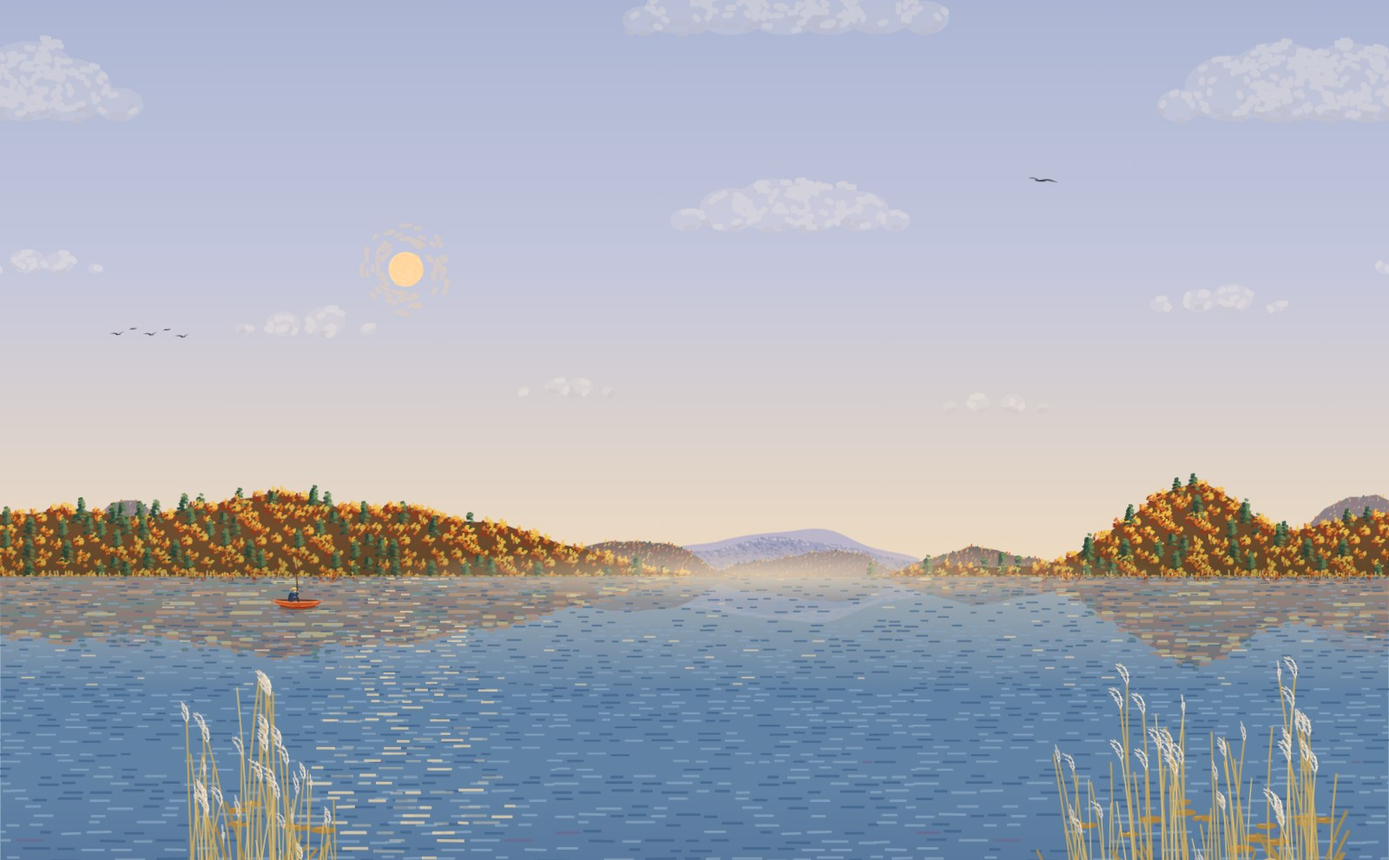
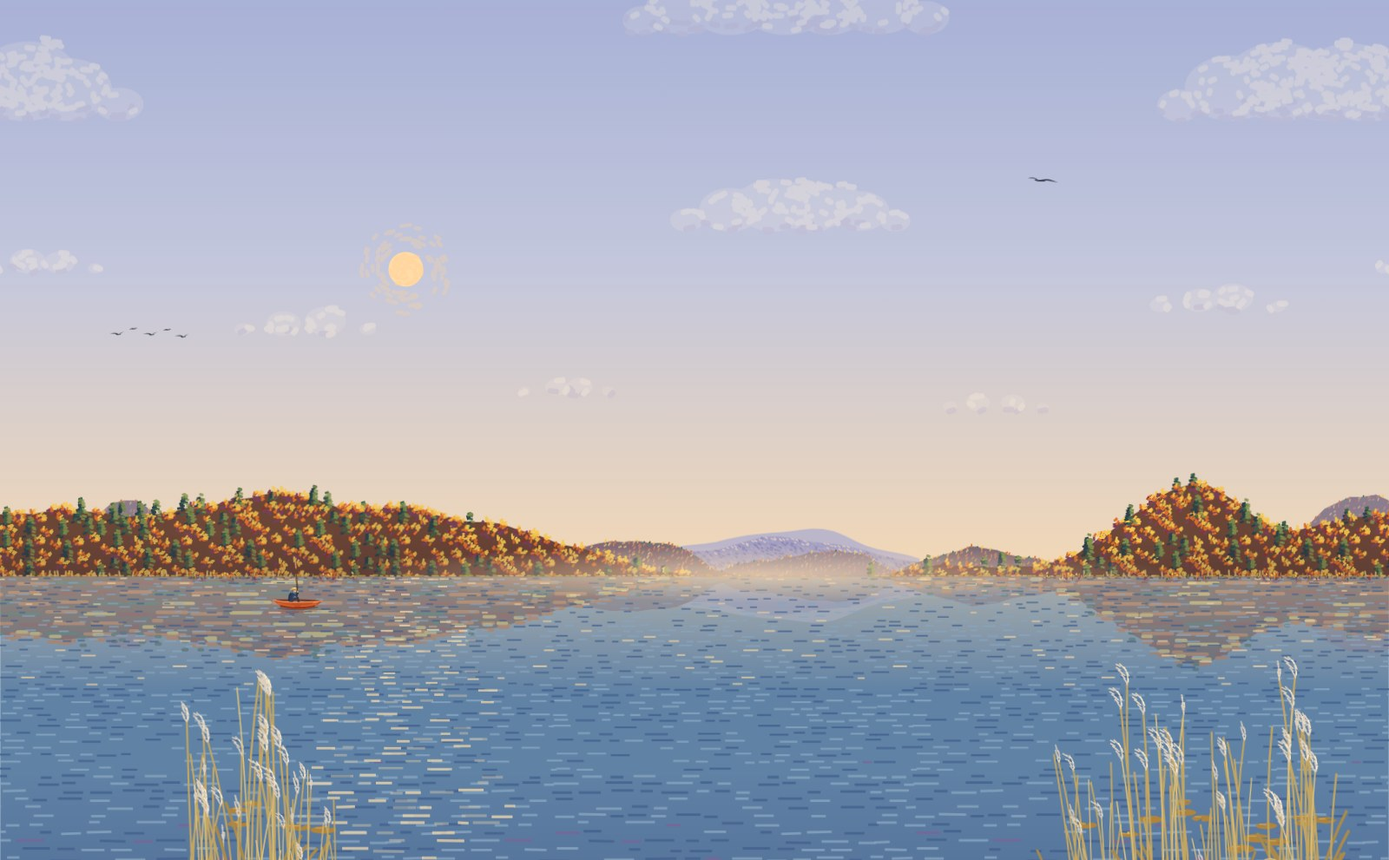
Trees placed as markers (cheaper frames); warmer lights, violet shade, and a cool land tint at dawn and dusk

diff --git a/hooks/scene.ts b/hooks/scene.ts
@@ -125,7 +125,7 @@ const SHADE = '#0b1a33'
 /** The rim of light on the boat and the man. */
 const RIM = '#ffcf9a'
 /** Opacity of the sheets' warm light and cool shade where a face is turned fully to or from the light. */
-const FACE_LIT = 0.16
+const FACE_LIT = 0.19
 const FACE_SHADE = 0.15
 /** The light at a minute: how much comes from the east and from the west across the picture (0 to about 1), from
  * the sun and the moon together, and the sun's own [height, bearing]. */
@@ -560,38 +560,38 @@ type Slot = { day: Four; night?: Four; prop: 'stroke' | 'fill' | 'stop-color' }
 
 const SLOTS: Record<string, Slot> = {
   // sky dabs, top to horizon
-  q1: { prop: 'stop-color', day: ['#9dbde0', '#79aade', '#a2b0d2', '#b6c2d2'], night: ['#0f1a40', '#0d1a44', '#13193d', '#161e3e'] },
+  q1: { prop: 'stop-color', day: ['#94b6e0', '#6c9fdb', '#9caad6', '#aebcd4'], night: ['#0f1a40', '#0d1a44', '#13193d', '#161e3e'] },
   q2: { prop: 'stop-color', day: ['#bfd5ec', '#a9cdec', '#c4c8de', '#cdd5df'], night: ['#1a2a58', '#17295c', '#1e2652', '#212a50'] },
-  q3: { prop: 'stop-color', day: ['#ebe8e0', '#dcecf3', '#f0dcc0', '#eaedf0'], night: ['#2f4274', '#2b4178', '#353a68', '#37416a'] },
+  q3: { prop: 'stop-color', day: ['#f2ead8', '#e8ece2', '#f4d9b6', '#efe9e6'], night: ['#2f4274', '#2b4178', '#353a68', '#37416a'] },
   sf: { prop: 'fill', day: ['#fff3d0', '#fffae2', '#ffdca8', '#f8f4ea'], night: ['#f1ead0', '#f4eed6', '#f3e2bd', '#eef0f2'] },
   // sun by day, moon by night
   su: { prop: 'stroke', day: ['#fff0c4', '#fff7d6', '#ffd49a', '#f6f1e4'], night: ['#f1ead0', '#f4eed6', '#f3e2bd', '#eef0f2'] },
   // clouds: lit tops and shaded bellies
-  cl: { prop: 'stroke', day: ['#f7f7f4', '#ffffff', '#f6ece0', '#eef1f4'], night: ['#4a5684', '#4a5888', '#4e5480', '#55608a'] },
+  cl: { prop: 'stroke', day: ['#fbf6ea', '#fffbf0', '#fbeedd', '#f6f3ee'], night: ['#4a5684', '#4a5888', '#4e5480', '#55608a'] },
   cf: { prop: 'fill', day: ['#f3f4f2', '#fbfcfc', '#f3ebe2', '#e9edf1'], night: ['#3e4a78', '#3e4c7c', '#424874', '#48537e'] },
-  cs: { prop: 'stroke', day: ['#c7d1dc', '#c4d2e2', '#cdc6c8', '#bfc7d1'], night: ['#28325a', '#27345e', '#2b3058', '#2e3760'] },
+  cs: { prop: 'stroke', day: ['#bcc3dc', '#b8c4e0', '#c2bad0', '#b6bdd6'], night: ['#28325a', '#27345e', '#2b3058', '#2e3760'] },
   // far ridge
-  fr: { prop: 'fill', day: ['#93a8c4', '#839ec2', '#a0a3c0', '#a4afc2'] },
-  fd: { prop: 'stroke', day: ['#7a92b6', '#6a8bb4', '#8a8cb0', '#8a98b0'] },
+  fr: { prop: 'fill', day: ['#94a4c8', '#8399c6', '#a29fc4', '#a6abc8'] },
+  fd: { prop: 'stroke', day: ['#7a8cbc', '#6a85ba', '#8a86b4', '#8a92b8'] },
   f2: { prop: 'stroke', day: ['#a2b5cf', '#90abcc', '#b0aac6', '#b7c2d2'] },
-  f3: { prop: 'stroke', day: ['#c4d0e0', '#b2c4da', '#d2c4cc', '#f5f7f9'] },
+  f3: { prop: 'stroke', day: ['#d2d4dc', '#b8c6d8', '#dcc8c4', '#f5f7f9'] },
   // a farther ridge behind it, half lost in the haze of the sky
   fz: { prop: 'fill', day: ['#b7c4d8', '#a9bfd8', '#bcb7cc', '#c4cdd9'] },
   // ground under the woods
-  gr: { prop: 'fill', day: ['#3e6a42', '#2c5534', '#6e4a2e', '#dbe3ee'] },
+  gr: { prop: 'fill', day: ['#3a6248', '#284c3e', '#6a4436', '#d8dff0'] },
   // the shade at the foot of the near woods: dark green, a cool blue on the snow in winter
-  qf: { prop: 'stop-color', day: ['#14301c', '#14301c', '#14301c', '#46608c'] },
+  qf: { prop: 'stop-color', day: ['#152a2e', '#132a30', '#2a1c30', '#4a5a94'] },
   // broadleaf crowns: shadow, body, light (blossom in spring, gold in autumn). In winter the crowns are bare and
   // laden with snow: warm grey and blue-white, the dark twigs (t1) showing only here and there on the shaded side;
   // t4 is the rest of the shade, the same as t1 until winter, when it is snow in shadow.
-  t1: { prop: 'stroke', day: ['#4b7a47', '#2b5a36', '#8e3a22', '#4a3c35'] },
-  t4: { prop: 'stroke', day: ['#4b7a47', '#2b5a36', '#8e3a22', '#9da2b0'] },
-  t2: { prop: 'stroke', day: ['#86bb5e', '#4a8742', '#d6732a', '#c4bcb5'] },
-  t3: { prop: 'stroke', day: ['#f3b6c6', '#8fc25a', '#f2c24a', '#f4f7fb'] },
+  t1: { prop: 'stroke', day: ['#3f6e4c', '#24503a', '#8a3424', '#4a3c35'] },
+  t4: { prop: 'stroke', day: ['#4a6a72', '#2a4c5e', '#74405a', '#9a9cc8'] },
+  t2: { prop: 'stroke', day: ['#86bb5e', '#4a8742', '#d8702c', '#c8bdb4'] },
+  t3: { prop: 'stroke', day: ['#f3b6c6', '#b2cc62', '#f6c84e', '#fbf8f0'] },
   // conifers stay green, white-capped in winter
-  c1: { prop: 'stroke', day: ['#24463a', '#1f4136', '#28473b', '#173328'] },
+  c1: { prop: 'stroke', day: ['#21404a', '#1b3a44', '#2a3f48', '#1a3038'] },
   c2: { prop: 'stroke', day: ['#3b674c', '#305d46', '#3a5f48', '#284a3a'] },
-  c3: { prop: 'stroke', day: ['#6c9a60', '#588a52', '#6c8756', '#eef2f6'] },
+  c3: { prop: 'stroke', day: ['#7aa25e', '#6c9850', '#80904e', '#f8f6f0'] },
   // shore: grass and sand, snow in winter
   g1: { prop: 'stroke', day: ['#79a556', '#5b8b3e', '#a3893f', '#e8eef4'] },
   // reeds near the viewer: stalks, blades, and plumes (purple-brown young plumes in spring and summer, mauve-cream in
@@ -604,12 +604,12 @@ const SLOTS: Record<string, Slot> = {
   g2: { prop: 'stroke', day: ['#cdc28a', '#bfae70', '#caa060', '#cdd7e2'] },
   // water: base, deep dabs, mid dabs, glints
   wa: { prop: 'fill', day: ['#6e9cc2', '#4c8cc2', '#5f82a6', '#8aa2b8'], night: ['#0f1c44', '#0d1c48', '#111b40', '#152042'] },
-  w1: { prop: 'stroke', day: ['#4d7eae', '#2e6da8', '#3e648e', '#6d88a2'], night: ['#0a1534', '#081538', '#0c1532', '#101a36'] },
+  w1: { prop: 'stroke', day: ['#4b74ae', '#2d62a6', '#41608f', '#6a84a6'], night: ['#0a1534', '#081538', '#0c1532', '#101a36'] },
   w2: { prop: 'stroke', day: ['#8bb6d6', '#6aa8da', '#86a5c2', '#b2c4d4'], night: ['#22336a', '#1f346e', '#252f62', '#2a3766'] },
   w3: { prop: 'stroke', day: ['#e4eef2', '#dcedf6', '#f2d8ae', '#f2f5f8'], night: ['#c9c6ae', '#d2cfb6', '#cdbb98', '#d6dae2'] },
   // a few strokes of the opposite colour, as a pointillist puts them: muted violet in the deep water, pale warm in the lit
-  w4: { prop: 'stroke', day: ['#6b6c9e', '#5d64a2', '#6c6690', '#8a8daa'] },
-  w5: { prop: 'stroke', day: ['#d9d5c4', '#d6d6c4', '#e2d0b2', '#e0ddd6'] },
+  w4: { prop: 'stroke', day: ['#7468a8', '#6460aa', '#7a6498', '#8e88b4'] },
+  w5: { prop: 'stroke', day: ['#e8dcc0', '#e6dcbc', '#ecd2a8', '#ece2d8'] },
   // v37: the light side of the reeds' heads; lily pads by the reeds (young in spring, full in summer, floating gold
   // leaves in autumn, thin plates of ice in winter), the light on them, and summer's flowers (the light in other seasons)
   e4: { prop: 'stroke', day: ['#c09a86', '#aa827a', '#fff2d2', '#ffffff'] },
@@ -1309,10 +1309,28 @@ function conifer(d: Dabs, rand: () => number, cx: number, base: number, h: numbe
 
 /** Gap between trees in a row; rows are 0.6 of it apart, every other one set half a gap over. */
 const GAP = 34
-/** Groves: four trees drawn as one set of strokes (two in a row, two in the next set half a gap over) and set down with
- * one <use>, for the woods inside the hills; the trees along a skyline stand one by one. A frame costs about the
- * same per <use> however many strokes it holds, so groves keep the wider land as cheap as v23's. */
+/** Groves: four trees drawn as one set of strokes (two in a row, two in the next set half a gap over) and set down as
+ * one marker, for the woods inside the hills; the trees along a skyline stand one by one. */
 const GROVES = 7
+/** The markers the woods are painted with (see woods): each tree's shade and body, its lit strokes; the same for the
+ * groves. A path of class X puts marker X on each of its points. */
+const TREE_MARKS = [...'ABCDEFGHIJKLMNOPQRSTUVWXY', ...[0, 1, 2, 3, 4, 5, 6].map(g => `y${g}`)]
+const litMark = (id: string) => `${id}l`
+/** One band's trees: for each template, a path through its places (back ones first), with its shade and body; then a
+ * <use> copy of them all in a group that flashes with the gust, where they carry the lit strokes instead (a selector
+ * naming an ancestor outside a copy does not match inside it: see the stylesheet). */
+function treePaths(at: Map<string, [number, number][]>, id: string) {
+  const list = [...at].sort(([, a], [, b]) => a.reduce((s, p) => s + p[1], 0) / a.length - b.reduce((s, p) => s + p[1], 0) / b.length)
+  const d = (pts: [number, number][]) => {
+    let [px, py] = [0, 0]
+    return pts.map(([x, y]) => {
+      const m = `m${pair(x - px, y - py)}`
+      ;[px, py] = [x, y]
+      return m
+    }).join('')
+  }
+  return `<g id="${id}">${list.map(([k, pts]) => `<path class="${k}" d="${d(pts)}"/>`).join('')}</g><g class="vl"><use href="#${id}"/></g>`
+}
 /** Random draws v23's woods took from the scene's stream: still taken, so the reeds keep their shapes. */
 const OLD_WOOD_DRAWS = 7647
 
@@ -1324,14 +1342,20 @@ function woods(sceneRand: () => number) {
   const left = outline(slopeL, X0 - 8, L_END, 16)
   const right = outline(slopeR, R_START, X1 + 16, 16)
 
-  // The trees are a few drawn crowns and cones, each set down where it stands with <use>: the renderer repeats them,
+  // The trees are a few drawn crowns and cones, each set down where it stands as a marker: the renderer repeats them,
   // so the picture stays small however many trees there are. Several of each size, so neighbours seldom match.
-  // A tree's lit strokes sit in their own group (.vl) so a gust can flash them, as leaves turn their pale side to
-  // the wind; the band a tree stands in hands the gust's timing down to it (--d).
+  // A tree's lit strokes are a marker of their own, drawn in a group per band (.vl) so a gust can flash them, as
+  // leaves turn their pale side to the wind; the band hands the gust's timing down to that group (--d).
   const lit = (slot: string) => slot === 't3' || slot === 'c3'
   type Shape = { id: string; r: number; kind: 'b' | 'c'; slots: [string, [number, number, number, number][]][]; dabs: [number, number, number, number][] }
   const shapes: Record<'b' | 'c', Shape[][]> = { b: [], c: [] }
   let defs = ''
+  // Each tree (and grove) is painted twice as a marker: its shade and body (id), and its lit strokes (lit). A tree is
+  // set down as a point of a path that is never stroked, each template's places in a band one path, which the player
+  // draws for much less than a <use> each (v44: about 0.4 ms a frame). Marker content inherits only from where the
+  // marker is defined, so nothing inside may move: the leaves' flash is a group opacity round the lit paths of each
+  // band instead (drawn after its shade and body, which in the sparse dabs looks the same).
+  const marks = (id: string, litId: string, d: Dabs) => `<marker id="${id}">${d.svg(0, '', s => !lit(s))}</marker><marker id="${litId}">${d.svg(0, '', lit)}</marker>`
   const brush = rng(7741)
   for (const [kind, sizes, variants] of [['b', [10, 11.5, 13, 14.5], 4], ['c', [10, 12, 14], 3]] as const) {
     for (const r of sizes) {
@@ -1341,9 +1365,9 @@ function woods(sceneRand: () => number) {
         if (kind === 'c') conifer(d, brush, 0, 0, r * 3)
         else crown(d, brush, 0, 0, r)
         // (the trees' templates are named by single capital letters, A to Y: their names are written at every tree)
-        const id = 'ABCDEFGHIJKLMNOPQRSTUVWXYZ'[defs.split('<g id=').length - 1]!
+        const id = 'ABCDEFGHIJKLMNOPQRSTUVWXYZ'[shapes.b.flat().length + shapes.c.flat().length + row.length]!
         row.push({ id, r, kind, slots: [...d.bySlot.entries()], dabs: [...d.bySlot.values()].flat() })
-        defs += `<g id="${id}">${d.svg(0, '', s => !lit(s))}<g class="vl">${d.svg(0, '', lit)}</g></g>`
+        defs += marks(id, litMark(id), d)
       }
       shapes[kind].push(row)
     }
@@ -1380,16 +1404,16 @@ function woods(sceneRand: () => number) {
         }
       }
     }
-    defs += `<g id="k${g}">${d.svg(0, '', s => !lit(s))}<g class="vl">${d.svg(0, '', lit)}</g></g>`
+    defs += marks(`y${g}`, litMark(`y${g}`), d)
   }
 
   // staggered rows of trees; the top row stands on the ridge, so crowns break the skyline. Taken four places at a
   // time: where all four lie deep in the woods a grove stands there, elsewhere each place gets its own tree.
-  type Stand = { x: number; y: number; use: string; trees: Tree[] }
+  type Stand = { x: number; y: number; id: string; trees: Tree[] }
   const stands0: Stand[] = []
-  const single = (t: Tree) => stands0.push({ x: t.x, y: t.y, use: `<use href="#${t.shape.id}" x="${t.x}" y="${t.y}"/>`, trees: [t] })
+  const single = (t: Tree) => stands0.push({ x: t.x, y: t.y, id: t.shape.id, trees: [t] })
   const group = (id: string, members: Tree[], x: number, y: number) =>
-    stands0.push({ x, y, use: `<use href="#${id}" x="${x}" y="${y}"/>`, trees: members.map(t => ({ ...t, x: t.x + x, y: t.y + y })) })
+    stands0.push({ x, y, id, trees: members.map(t => ({ ...t, x: t.x + x, y: t.y + y })) })
   const plant = (x0: number, x1: number, top: (x: number) => number) => {
     const dy = GAP * 0.6
     // rows counted up from the water, each pair of rows taken together
@@ -1400,7 +1424,7 @@ function woods(sceneRand: () => number) {
         const inside = ([x, y]: readonly [number, number]) => y - 6 > top(x) + 2 && y + 6 <= SHORE + 4 && x <= x1
         if (places.every(inside)) {
           const g = Math.floor(rand() * GROVES)
-          group(`k${g}`, groves[g]!, R(x0 + j * GAP + (rand() - 0.5) * 6), R(rowY(i + 0.5) + (rand() - 0.5) * 4))
+          group(`y${g}`, groves[g]!, R(x0 + j * GAP + (rand() - 0.5) * 6), R(rowY(i + 0.5) + (rand() - 0.5) * 4))
           continue
         }
         for (const [x, y] of places) {
@@ -1428,7 +1452,7 @@ function woods(sceneRand: () => number) {
   // right, and neighbouring trees never move as one.
   // The skyline the hills and treetops make is read off the strokes as they are set down: the dawn and dusk glow and
   // the moon are kept above it, so the moon sets behind the trees and the glow does not lie over the land.
-  const stands = Array.from({ length: GUST_BANDS * 2 }, () => '')
+  const stands = Array.from({ length: GUST_BANDS * 2 }, () => new Map<string, [number, number][]>())
   // the woods as the lake shows them: each tree a couple of flat dabs of its colours
   const soft = new Dabs().order('t1', 'c1', 't2', 'c2', 't3')
   const tops = new Map<number, number>()
@@ -1438,7 +1462,9 @@ function woods(sceneRand: () => number) {
   }
   for (const [i, s] of stands0.entries()) {
     const band = Math.min(GUST_BANDS - 1, Math.max(0, Math.floor(((s.x - X0) / (X1 - X0)) * GUST_BANDS)))
-    stands[band * 2 + (i % 2)] += s.use
+    // (each template's trees in a band rustle as one, half the templates one way, half the other: one path each)
+    const places = stands[band * 2 + ((s.id.charCodeAt(0) + +(s.id[1] ?? 0) + band) % 2)]!
+    places.set(s.id, [...(places.get(s.id) ?? []), [s.x, s.y]])
     // a grove shows in the lake as a long dab for each of its rows
     if (s.trees.length > 1) {
       for (const v of [-0.3, 0.3]) {
@@ -1487,7 +1513,7 @@ function woods(sceneRand: () => number) {
   const hills = [[slopeL, X0 - 8, L_END, 'ga'], [slopeR, R_START, X1 + 16, 'gb']] as const
   const sheets = (['le', 'lw'] as const).map((side, i) => hills.map(([f, x0, x1, id], j) => `<use href="#${id}" class="${side}" fill="url(#l${2 * i + j})"/>`).join('')).join('')
   defs += (['le', 'lw'] as const).map(side => hills.map(([f, x0, x1], j) => faceSheet(`l${(side === 'le' ? 0 : 2) + j}`, f, x0, x1, side === 'le')).join('')).join('')
-  return `<defs>${defs}</defs><g class="gr"><path id="ga" fill="inherit" d="${left}"/><path id="gb" fill="inherit" d="${right}"/></g>${stands.map((u, i) => `<g class="u${i >> 1}"><g class="j${i & 1}">${u}</g></g>`).join('')}${feet}<g class="li">${sheets}</g>${shore.svg(3)}`
+  return `<defs>${defs}</defs><g class="gr"><path id="ga" fill="inherit" d="${left}"/><path id="gb" fill="inherit" d="${right}"/></g>${stands.map((u, i) => `<g class="u${i >> 1}"><g class="j${i & 1}">${treePaths(u, `T${i}`)}</g></g>`).join('')}${feet}<g class="ld" fill="#2c2856"><use href="#m0"/><use href="#m1"/><use href="#ga"/><use href="#gb"/></g><g class="li">${sheets}</g>${shore.svg(3)}`
 }
 
 // The lake's ripples, finer toward the horizon: rows close-set and strokes small and thin in the far water, growing
@@ -1537,7 +1563,7 @@ function water(rand: () => number) {
       const len = Math.min(size(), x0 + tile - 2 * Z - x)
       const p = wave()
       const q = tint()
-      const slot = depth > 0.4 && q < 0.045 ? 'w4' : depth < 0.3 && q < 0.06 ? 'w5' : p < 0.55 ? 'w2' : 'w1'
+      const slot = depth > 0.4 && q < 0.065 ? 'w4' : depth < 0.3 && q < 0.1 ? 'w5' : p < 0.55 ? 'w2' : 'w1'
       if ((x === x0 || wave() < 0.66) && len > 2) set.add(slot, x, y + jitter(), len, tilt())
       x += len + space()
     }
@@ -2034,7 +2060,7 @@ function build() {
   // dusk and night over all of it, deeper toward the top of the sky; above the veil, kept to the sky by the skyline,
   // the low glow of dawn and dusk and the moon, which sets behind the trees; the stars; the moon's path on the water
   // and the boat's lantern, which shine through the night; a dimmer for a dark window.
-  return `<defs><clipPath id="wc"><rect x="${X0}" y="${SHORE}" width="${X1 - X0}" height="${Y1 - SHORE}"/></clipPath><linearGradient id="sg" x2="0" y2="1"><stop class="q1"/><stop class="q2" offset=".55"/><stop class="q3" offset="1"/></linearGradient><radialGradient id="gl"><stop stop-color="#ffd37a" stop-opacity=".9"/><stop offset="1" stop-color="#ffd37a" stop-opacity="0"/></radialGradient>${glow('ge', ARC_X[0])}<clipPath id="sk"><path clip-rule="evenodd" d="M${X0 - 10} ${Y0 - 10}H${X1 + 30}V${Y1 + 10}H${X0 - 10}z${skyline}"/></clipPath><linearGradient id="nt" x2="0" y2="1"><stop stop-color="${NIGHT}" stop-opacity=".6"/><stop offset="1" stop-color="${NIGHT}" stop-opacity="0"/></linearGradient><linearGradient id="wg" x2="0" y2="1"><stop class="q3" stop-opacity=".5"/><stop class="q3" offset=".3" stop-opacity="0"/><stop offset=".55" stop-color="#0c2550" stop-opacity="0"/><stop offset="1" stop-color="#0c2550" stop-opacity=".22"/></linearGradient><radialGradient id="yg" gradientUnits="userSpaceOnUse" cx="${ARC_X[0]}" cy="${SHORE}" r="${R(1000 * ZK)}" gradientTransform="matrix(1 0 0 .3 0 ${R(SHORE * 0.7)})"><stop stop-color="#ffb46a" stop-opacity=".7"/><stop offset=".3" stop-color="#f49a7e" stop-opacity=".38"/><stop offset=".7" stop-color="#b08ab8" stop-opacity=".1"/><stop offset="1" stop-color="#b08ab8" stop-opacity="0"/></radialGradient><radialGradient id="hz" gradientUnits="userSpaceOnUse" cx="930" cy="${SHORE - 6}" r="760" gradientTransform="matrix(1 0 0 .07 0 ${R((SHORE - 6) * 0.93)})"><stop class="q3" stop-opacity=".75"/><stop class="q3" offset=".6" stop-opacity=".3"/><stop class="q3" offset="1" stop-opacity="0"/></radialGradient><linearGradient id="ft" gradientUnits="userSpaceOnUse" y1="${SHORE - 80}" x2="0" y2="${SHORE + 4}"><stop class="qf" stop-opacity="0"/><stop class="qf" offset="1" stop-opacity=".2"/></linearGradient><radialGradient id="mg"><stop stop-color="#eef1f6" stop-opacity=".75"/><stop offset=".55" stop-color="#eef1f6" stop-opacity=".35"/><stop offset="1" stop-color="#eef1f6" stop-opacity="0"/></radialGradient>${catsPaw[0]}<radialGradient id="hg"><stop offset=".3" stop-color="${SHADE}"/><stop offset="1" stop-color="${SHADE}" stop-opacity="0"/></radialGradient><radialGradient id="mh"><stop stop-color="#eef2fa" stop-opacity=".5"/><stop offset=".45" stop-color="#eef2fa" stop-opacity=".14"/><stop offset="1" stop-color="#eef2fa" stop-opacity="0"/></radialGradient></defs>
+  return `<defs><clipPath id="wc"><rect x="${X0}" y="${SHORE}" width="${X1 - X0}" height="${Y1 - SHORE}"/></clipPath><linearGradient id="sg" x2="0" y2="1"><stop class="q1"/><stop class="q2" offset=".55"/><stop class="q3" offset="1"/></linearGradient><radialGradient id="gl"><stop stop-color="#ffd37a" stop-opacity=".9"/><stop offset="1" stop-color="#ffd37a" stop-opacity="0"/></radialGradient>${glow('ge', ARC_X[0])}<clipPath id="sk"><path clip-rule="evenodd" d="M${X0 - 10} ${Y0 - 10}H${X1 + 30}V${Y1 + 10}H${X0 - 10}z${skyline}"/></clipPath><linearGradient id="nt" x2="0" y2="1"><stop stop-color="${NIGHT}" stop-opacity=".6"/><stop offset="1" stop-color="${NIGHT}" stop-opacity="0"/></linearGradient><linearGradient id="wg" x2="0" y2="1"><stop class="q3" stop-opacity=".5"/><stop class="q3" offset=".3" stop-opacity="0"/><stop offset=".5" stop-color="#1c2462" stop-opacity="0"/><stop offset="1" stop-color="#1c2462" stop-opacity=".28"/></linearGradient><radialGradient id="yg" gradientUnits="userSpaceOnUse" cx="${ARC_X[0]}" cy="${SHORE}" r="${R(1000 * ZK)}" gradientTransform="matrix(1 0 0 .3 0 ${R(SHORE * 0.7)})"><stop stop-color="#ffb46a" stop-opacity=".7"/><stop offset=".3" stop-color="#f49a7e" stop-opacity=".38"/><stop offset=".7" stop-color="#b08ab8" stop-opacity=".1"/><stop offset="1" stop-color="#b08ab8" stop-opacity="0"/></radialGradient><radialGradient id="hz" gradientUnits="userSpaceOnUse" cx="930" cy="${SHORE - 6}" r="760" gradientTransform="matrix(1 0 0 .07 0 ${R((SHORE - 6) * 0.93)})"><stop class="q3" stop-opacity=".75"/><stop class="q3" offset=".6" stop-opacity=".3"/><stop class="q3" offset="1" stop-opacity="0"/></radialGradient><linearGradient id="ft" gradientUnits="userSpaceOnUse" y1="${SHORE - 80}" x2="0" y2="${SHORE + 4}"><stop class="qf" stop-opacity="0"/><stop class="qf" offset="1" stop-opacity=".2"/></linearGradient><radialGradient id="mg"><stop stop-color="#eef1f6" stop-opacity=".75"/><stop offset=".55" stop-color="#eef1f6" stop-opacity=".35"/><stop offset="1" stop-color="#eef1f6" stop-opacity="0"/></radialGradient>${catsPaw[0]}<radialGradient id="hg"><stop offset=".3" stop-color="${SHADE}"/><stop offset="1" stop-color="${SHADE}" stop-opacity="0"/></radialGradient><radialGradient id="mh"><stop stop-color="#eef2fa" stop-opacity=".5"/><stop offset=".45" stop-color="#eef2fa" stop-opacity=".14"/><stop offset="1" stop-color="#eef2fa" stop-opacity="0"/></radialGradient></defs>
 <rect fill="url(#sg)" ${sky}/>${sunDabs}${cloudDabs}${birds()}
 <g>${far}${mids}${wood}</g>
 <rect class="wa" ${lake0}/><rect fill="url(#wg)" ${lake0}/>
@@ -2167,6 +2193,8 @@ function dayCss(now: number, tz: number) {
     ['gk', 7.2, m => `opacity:${num(ramp(sunEl(m), [[1, 0.9], [5, 0.7], [11, 0]]))}`],
     ['cp', 7.2, m => `opacity:${num(ramp(sunEl(m), [[-9, 0], [-4, 0.7], [2, 0.85], [7, 0.5], [13, 0]]))}`],
     ['ms', 7.2, m => `opacity:${num(day.sun(m)[1] < 180 ? ramp(sunEl(m), [[-7, 0], [-4, 0.9], [2, 0.85], [8, 0]]) : 0)}`],
+    // the land goes cool and dark against the glowing sky when the sun is low (under the lake it is hidden)
+    ['ld', 7.2, m => `opacity:${num(ramp(sunEl(m), [[-6, 0], [-2, 0.3], [3, 0.26], [9, 0]]))}`],
     ['bd', 7.2, m => `opacity:${num(ramp(sunEl(m), [[-4, 0], [0, 1]]))}`],
     ['lq', 7.2, m => `opacity:${num(ramp(sunEl(m), [[-4, 1], [2, 0]]))}`],
     // the light engine: the sheets on the hills and the rims on the boat, the boat's and the hills' shade, the clouds' bellies
@@ -2265,11 +2293,11 @@ ${variant === 'test' ? '' : `.gy{animation:gy var(--b) ease-in-out var(--o,0s) i
 .bj{--b:${short(FLOCK_BEAT)}s;animation:jostle var(--t) ease-in-out var(--j) infinite alternate}@keyframes jostle{from{translate:-3px 1.6px}to{translate:3px -2.4px}}
 @keyframes gn{0%,30%,62%,100%{rotate:0deg}42%,50%{rotate:-5deg}}.kf{fill:#5d6b7a;transform:matrix(-.6,.16,0,.75,5,-2)}
 .oy{--b:${short(BEAT_S)}s;animation:oy var(--t) ease-in-out var(--j) infinite alternate,gn 23s ease-in-out var(--d) infinite}@keyframes oy{from{translate:0 -11px}to{translate:0 11px}}
-marker{overflow:visible}.e2{stroke-width:${num(2.2 * PS)}}.e4{stroke-width:${num(1.6 * PS)}}${PLUMES.map((_, q) => `.k${q}{marker:url(#rp${q})}`).join('')}${REEDS.map((_, i) => `.x${i}`).join(',')}{animation:reed ${GUST}s ease-in-out var(--j) infinite}${REEDS.map(([x, y], i) => `.x${i}{transform-origin:${x}px ${y}px;--j:${short(gustDelay(x))}s}`).join('')}
+marker{overflow:visible}${TREE_MARKS.map(k => `.${k}{marker:url(#${litMark(k)})}`).join('')}${TREE_MARKS.map(k => `g>g>.${k}{marker:url(#${k})}`).join('')}.e2{stroke-width:${num(2.2 * PS)}}.e4{stroke-width:${num(1.6 * PS)}}${PLUMES.map((_, q) => `.k${q}{marker:url(#rp${q})}`).join('')}${REEDS.map((_, i) => `.x${i}`).join(',')}{animation:reed ${GUST}s ease-in-out var(--j) infinite}${REEDS.map(([x, y], i) => `.x${i}{transform-origin:${x}px ${y}px;--j:${short(gustDelay(x))}s}`).join('')}
 ${gustFrames('reed', s => `transform:skewX(${num(0.5 + 1.9 * s)}deg)`)}
 
 .sk{animation:flake 400s linear infinite}@keyframes flake{to{transform:translateY(${Y1 - Y0}px)}}
-.lg stop{stop-color:#10203f}.lg .la{stop-color:#ffe0a8}.hs{transform-origin:0 ${SHORE}px}.cu{stroke:#f2a08e}.gk{stroke:#ff9a4c}.cp{stroke:#ffb894;fill:#f6b9a4}
+.lg stop{stop-color:#1e1c4c}.lg .la{stop-color:#ffe0a8}.hs{transform-origin:0 ${SHORE}px}.cu{stroke:#f2a08e}.gk{stroke:#ff9a4c}.cp{stroke:#ffb894;fill:#f6b9a4}
 ${variant === 'test' ? '.tm{animation:tm 12s linear infinite}@keyframes tm{to{transform:translateX(1600px)}}' : ''}
 .bt{translate:${SPOTS[0][0]}px ${LANES[0]}px;animation:voyage ${VOYAGE}s linear ${lap(VOYAGE)}s infinite}
 ${voyage()}

diff --git a/tests/lake.test.tsx b/tests/lake.test.tsx
@@ -1,6 +1,6 @@
 import { expect, test } from 'claude-code/testing'
 
-const SCENE = 'lake43-auto-60-full'
+const SCENE = 'lake44-auto-60-full'
 
 function engine(on: any, sets: unknown[]) {
   on('command.register', (_: unknown, e: { name: string }) => ({ value: { command: e.name } }))
@@ -39,7 +39,7 @@ test('/lake pins a season, /lake off clears, /lake on sets it again', async ($, 
 
   const autumn = await $.command.run({ command: 'lake', args: '秋' })
   expect(String(autumn.text)).toContain('定格在秋')
-  expect(sets.at(-1).backdrop.scene).toBe('lake43-autumn-60-full')
+  expect(sets.at(-1).backdrop.scene).toBe('lake44-autumn-60-full')
 
   const off = await $.command.run({ command: 'lake', args: 'off' })
   expect(String(off.text)).toContain('已关闭')
@@ -76,7 +76,7 @@ test('/lake test and /lake lite draw lighter scenes', async ($, on) => {
   for (const v of ['test', 'lite'] as const) {
     await $.command.run({ command: 'lake', args: v })
     const scene = sets.at(-1).backdrop.scene
-    expect(scene).toBe(`lake43-auto-60-${v}`)
+    expect(scene).toBe(`lake44-auto-60-${v}`)
     const ui = await $.ui.mount({ plugin: 'stipple-seasons', surface: 'desktop', component: 'Backdrop', props: { scene, plugin: 'stipple-seasons', glass: { blur: 14, opacity: 0.55 } } } as any)
     const source = String((await ui.find({ type: 'Svg' }))?.props.source ?? '')
     expect(source.length < (v === 'test' ? 30000 : 125000)).toBe(true)
@@ -113,7 +113,7 @@ test('/lake 晴|阴|雪 holds the weather, /lake auto lets it turn again', async
   const snow = await $.command.run({ command: 'lake', args: '雪' })
   expect(String(snow.text)).toContain('一直下雪')
   const scene = sets.at(-1).backdrop.scene
-  expect(scene).toBe('lake43-auto-60-full-snow')
+  expect(scene).toBe('lake44-auto-60-full-snow')
   const ui = await $.ui.mount({ plugin: 'stipple-seasons', surface: 'desktop', component: 'Backdrop', props: { scene, plugin: 'stipple-seasons', glass: { blur: 14, opacity: 0.55 } } } as any)
   const source = String((await ui.find({ type: 'Svg' }))?.props.source ?? '')
   expect(source.includes('.sn{opacity:1}')).toBe(true)
@@ -121,10 +121,10 @@ test('/lake 晴|阴|雪 holds the weather, /lake auto lets it turn again', async
   await ui.unmount()
 
   await $.command.run({ command: 'lake', args: '阴' })
-  expect(sets.at(-1).backdrop.scene).toBe('lake43-auto-60-full-cloudy')
+  expect(sets.at(-1).backdrop.scene).toBe('lake44-auto-60-full-cloudy')
 
   await $.command.run({ command: 'lake', args: 'auto' })
-  expect(sets.at(-1).backdrop.scene).toBe('lake43-auto-60-full')
+  expect(sets.at(-1).backdrop.scene).toBe('lake44-auto-60-full')
 })
 
 test('the sun and moon keep the local clock, and /lake says when they rise and set', async ($, on) => {

diff --git a/hooks/register.tsx b/hooks/register.tsx
@@ -9,7 +9,7 @@ const PLUGIN = 'stipple-seasons'
 const COMMAND = 'lake'
 const DEFAULT_MINUTES = 60
 // Part of the scene's name: a new value makes the app draw the scene again instead of keeping the one it has.
-const SCENE_VERSION = 43
+const SCENE_VERSION = 44
 
 // The app's own colours, tinted to the lake: misty blue paper by day, moonlit navy by night.
 const { theme, problems } = makeColors({
